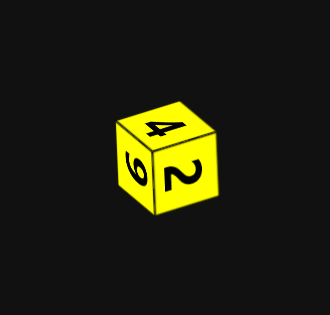
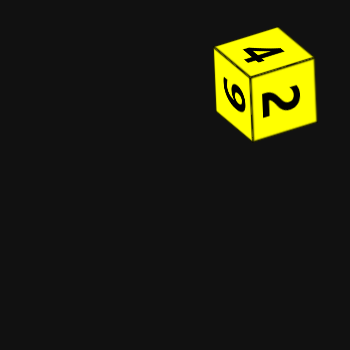
update

Changed region(s): [[0.3333, 0.3143, 0.6667, 0.6857], [0.6061, 0.0571, 0.9091, 0.4]]

diff --git a/store/work.js b/store/work.js
@@ -1,7 +1,46 @@
 // import axios from 'axios';
 
 export const state = () => ({
-    list:[
+    list:[ 
+        
+        {
+            id:1,
+            isActive:true,
+            title:'Артис',
+            position:'Верстальщик',
+            link:'http://artis-ltd.ru/',
+            linkTxt:'artis-ltd.ru',
+            time:'c сентябрь 2020 - по Февраль 2021 ',
+            description:`<p> В основные задачи входили: поддержка, разработка, рефакторинг старого кода сайтов компании.<br>
+            Создание новых разделов , посадка верстки на php.
+        <ul>
+            <li>Разработал приложение на  Node JS для пакетной обработки картинок</li>
+            <li>Написал парсер сайта на Node JS </li>
+            <li>Сверстал интрнет магазин </li>
+        </ul>
+        </p>`
+        },
+        {
+            id:2,
+            isActive:true,
+            title:'BMSGroup',
+            position:'Frontend Developer',
+            link:'https://bmsgroup.ru/',
+            linkTxt:'bmsgroup.ru',
+            time:'c Февраля 2022  по настоящее время',
+            description:`<p> 
+
+            Отмечу сразу  что работодатель объявил о  сокращении штата сотрудников, и дал время мне и моим коллегам для поиска нового места работы.
+
+            На самом деле здесь нет разделения Frontend/Backend, есть команда fullstack web.
+            В основном я исправлял баги ,верстал  , рефакторил код, писал небольшие фичи ,  и методы как для бека так и для фронта.
+            Разбирался с TypeScript , NestJS , как устроены проекты.
+
+            <br>
+            Стек :   VueJs, Nuxt, Nest + MongoDB.
+
+            </p>`
+        },
     ],
 
 });

diff --git a/components/pages/home/WorkList.vue b/components/pages/home/WorkList.vue
@@ -2,37 +2,45 @@
 
 <div class="experience block-border-bottom  ">
 
-<!-- <description></description> -->
-
   <h2 id="experience" class="title">Опыт работы</h2>
 
-<div class="experience__list contanier">
-
-    <div class="experience__item ">
-      <h3 class=" title ">Артис <a href="http://artis-ltd.ru/" class="link">artis-ltd.ru</a> </h3>
-      <h3 >Должность : <span class="title">Верстальщик</span> </h3>
-      <p class="description experience__item-time">
-        c января 2019 - февраяль 2022 (6 лет 2 месяца)
-      </p>
-      <the-details>
-          Lorem ipsum dolor sit amet consectetur adipisicing elit. Consequatur architecto alias dolorum voluptatem doloremque optio aperiam explicabo hic ut, quo non voluptate excepturi sit deserunt ullam recusandae officiis voluptatibus praesentium iusto provident dolore illo ea sunt repellendus? Tempore, minus sint incidunt, ab, alias iusto aperiam ut necessitatibus inventore natus eius?
-      </the-details>
-    </div>
-    
-</div>
+  <div class="experience__list contanier">
+    <work-item :item=item v-for="item in workList" :key="item.id"></work-item>
+  </div>
 
 </div>
 
 </template>
 
 <script>
+import WorkItem from '@/components/pages/home/WorkItem';
+
+export default {
+
+  data:()=>{
+    return {
+      workList:[]
+    }
+  },
+
+  fetch() {
+    this.workList =  this.$store.state.work.list.reverse();
+  },
+
+  components : {
+    WorkItem
+  },
+
+}
 
 </script>
 
 <style lang="scss">
+
 .experience >.title {
   text-align: center;
 }
+
 .experience__list{
   display: flex;
   flex-wrap: wrap;
@@ -41,31 +49,4 @@
   justify-content: center;
 }
 
-.experience__item{
-  font-size: .8em;
-  margin: .5em 0;
-  width: 100%;
-  max-width: 35rem;
-  text-align: center;
-  @media (min-width: 767.98px){
-    
-    max-width: 50%;
-    align-self: flex-start;
-    text-align: left;
-    &:nth-child(2){
-    align-self: flex-end;
-    text-align: right;
-    }
-  } 
-
-}
-.experience__item .title
-{
-  font-size: 1.1em;
-}
-
-.experience__item-time
-{
-
-}
 </style>

diff --git a/components/pages/home/WorkItem.vue b/components/pages/home/WorkItem.vue
@@ -1,0 +1,70 @@
+<template >
+
+    <div class="experience__item ">
+      <h3 class=" title ">{{item.title}} <a :href="item.link" class="link">{{item.linkTxt}}</a> </h3>
+      <h3 >Должность : <span class="title">{{item.position}}</span> </h3>
+      <p class="description experience__item-time">
+        {{item.time}}
+      </p>
+      <the-details class="experience__item-description">
+        <p v-html="item.description"></p> 
+      </the-details>
+    </div>
+    
+</template>
+
+<script>
+export default{
+    props:{
+    item:{
+        type: Object,
+        required: true,
+    }
+  }
+}
+</script>
+
+<style lang="scss">
+
+.experience__item{
+  font-size: .8em;
+  margin: .5em 0;
+  width: 100%;
+  max-width: 35rem;
+  text-align: center;
+  @media (min-width: 767.98px){
+    
+    max-width: 50%;
+    align-self: flex-start;
+    text-align: left;
+    &:nth-child(2){
+    align-self: flex-end;
+    text-align: right;
+    }
+  } 
+
+}
+.experience__item .title
+{
+  font-size: 1.1em;
+}
+
+.experience__item-time
+{
+
+}
+.experience__item-description 
+{
+  line-height: 1.3em;
+
+}
+.experience__item-description p,ul
+{
+  padding: .5rem;
+}
+.experience__item-description ul>li
+{
+  list-style: inside;
+  padding: .25rem;
+}
+</style>

diff --git a/components/pages/home/PortfolioItem.vue b/components/pages/home/PortfolioItem.vue
@@ -1,7 +1,7 @@
 
 <template>
 
-      <div class="portfolio__item">
+      <div v-if="item.isActive" class="portfolio__item">
         
         <a class="portfolio__site-link" target="blank" :href="item.link">
 
@@ -13,7 +13,7 @@
 
         </a>
 
-        <ul class="portfolio__item-about-list block-border-bottom">
+        <ul class="portfolio__item-about-list ">
           <li class="portfolio__item-about" v-for="stackElement in item.stack" :key="stackElement">{{stackElement}}</li>
         </ul>
 
@@ -54,14 +54,14 @@ export default{
 
   background:$bgColor2;
 
-  color: white;
+  color: rgba(255, 255, 255, 0.8);
 
   transition: all .2s ease;
 
-&:focus-within
-{
+  &:focus-within
+  {
       box-shadow:  0 0 0 0 transparent;
-}
+  }
 
 }
 
@@ -180,14 +180,14 @@ list-style: inside;
 .portfolio__git-link 
 {
   width: 100%;
-  
-color: $mainTxtColor;
-font-weight: bold;
+  border-top: rgba(197, 197, 197, 0.2) 1px solid;
+  color: inherit;
+  font-weight: bold;
   background: #000;
   text-align: center;
   padding: 0.7rem 1rem;
   font-size: .75em;
-transition: all .2s linear;
+  transition: all .2s ease;
   border-radius: 0  0  .7rem  .7rem;
 
 

diff --git a/store/portfolio.js b/store/portfolio.js
@@ -14,7 +14,7 @@ export const state = () => ({
         },
         {
             id:2,
-            isActive:true,
+            isActive:false,
             title:'Cliсker-Game',
             description:'игра на скорость кликов',
             stack:['js','css'],
@@ -34,7 +34,7 @@ export const state = () => ({
         },
         {
             id:5,
-            isActive:true,
+            isActive:false,
             title:'Drag-Drop Cards',
             description:'перетаскиваем карточки',
             stack:['js'],
@@ -54,7 +54,7 @@ export const state = () => ({
         },
         {
             id:7,
-            isActive:true,
+            isActive:false,
             title:'advocatus',
             description:'перетаскиваем карточки',
             stack:['js'],

diff --git a/components/pages/home/PortfolioList.vue b/components/pages/home/PortfolioList.vue
@@ -3,9 +3,9 @@
   <div class="portfolio  block-border-bottom">
     <h2 id="portfolio" class="title">Портфолио</h2>
     <div class="contanier">
-    <div class="portfolio__list ">
-      <PortfolioItem :item=item v-for="item in portfolioList" :key="item.id"/>
-    </div>
+      <div class="portfolio__list ">
+        <PortfolioItem :item=item v-for="item in portfolioList" :key="item.id"/>
+      </div>
     </div>
   </div>
 </template>
@@ -24,7 +24,7 @@ components:{
   },
 
   fetch() {
-    this.portfolioList =  this.$store.state.portfolio.list;
+    this.portfolioList =  this.$store.state.portfolio.list.reverse();
   },
 
   // mounted :function (){
